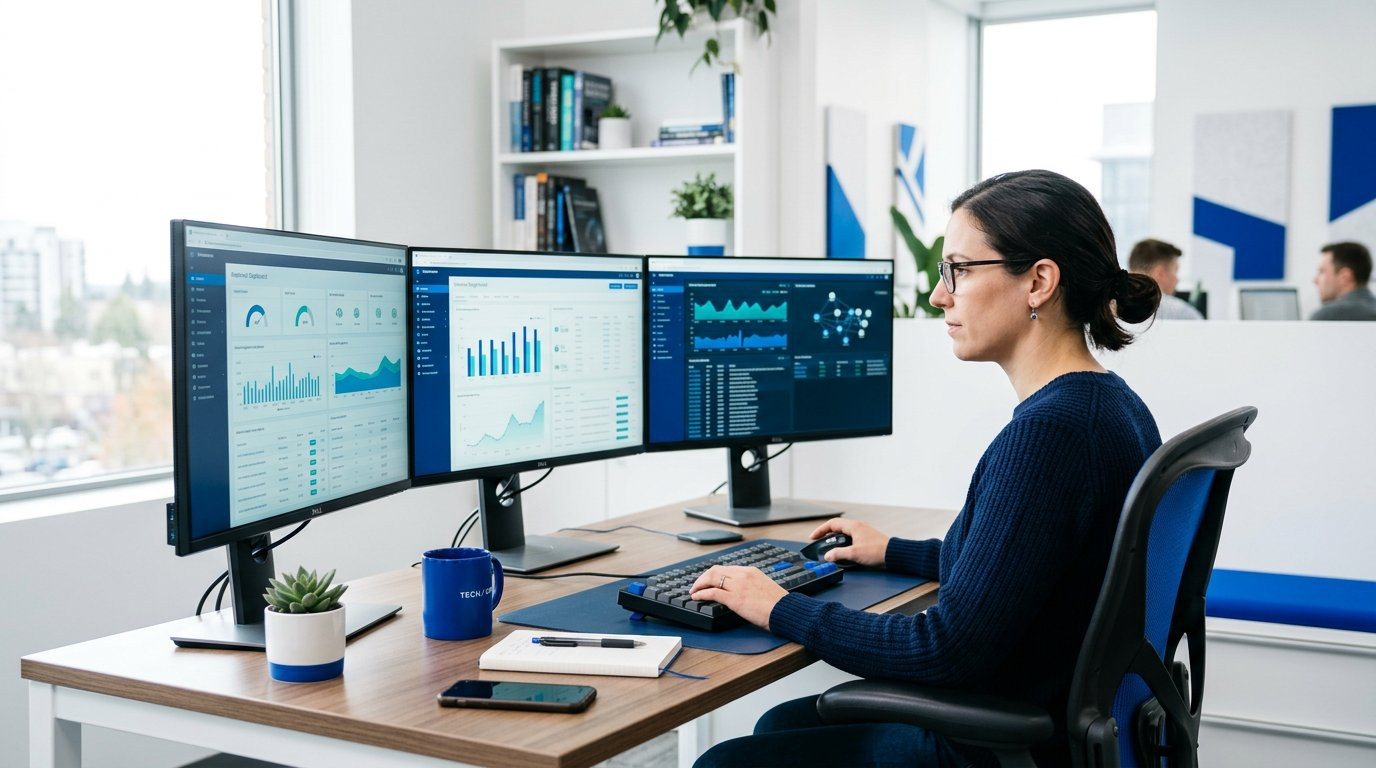
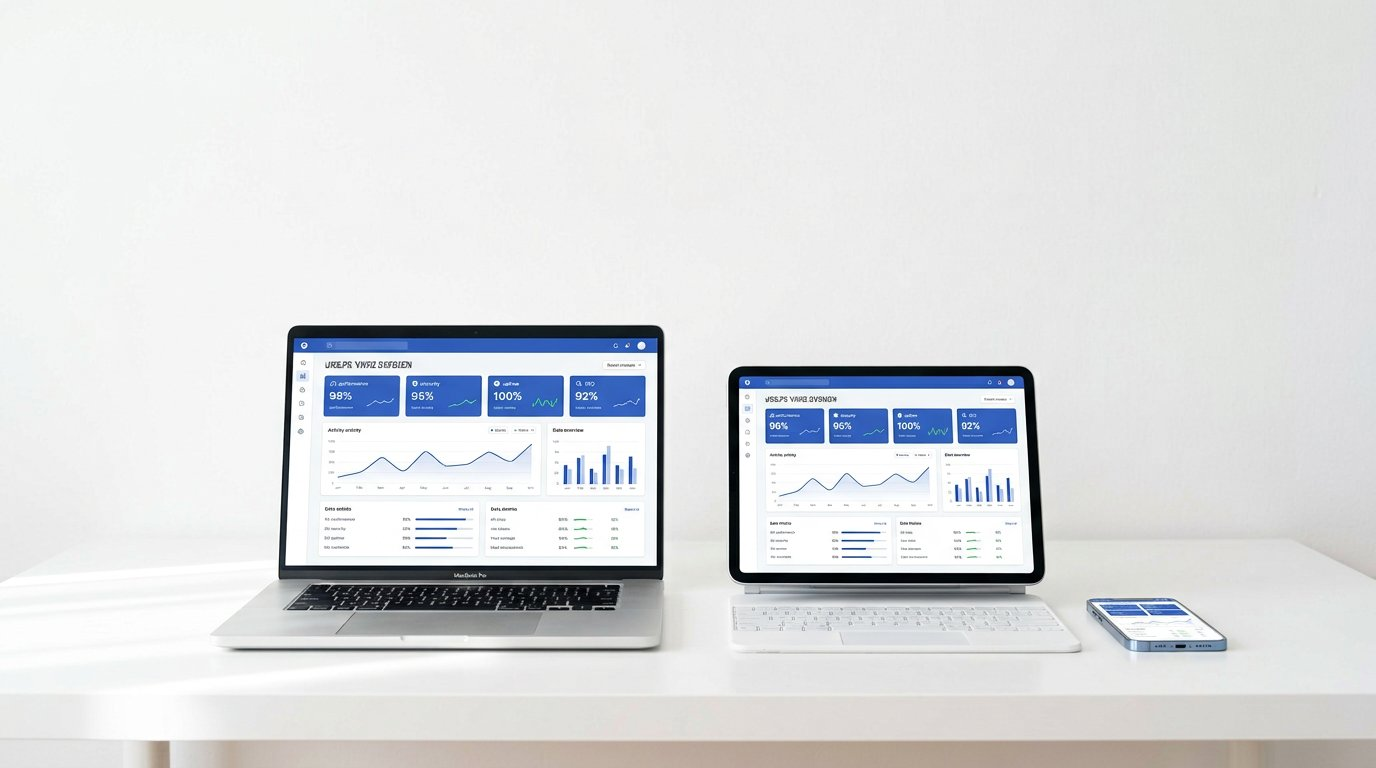
Product photoshoot pass: hero_banner / product_shot / lifestyle product images
Per higgsfield-product-photoshoot mode system (CLI bootstrap blocked in sandbox:
GitHub release hosts unreachable + interactive auth; modes applied via local
image generation, documented in docs/impeccable-audit.md):
- hero_banner: new page-products.jpg (device trio, royal-blue dashboards, white studio)
- product_shot: product-studio.jpg (SynthShift engine image)
- lifestyle_scene: product-lifestyle.jpg (Products parallax banner)
- src/data/engines.ts: zero Pexels image hotlinks remaining

diff --git a/src/data/engines.ts b/src/data/engines.ts
@@ -1,4 +1,8 @@
 import type { EngineMeta } from '../types';
+import methodImage from '../assets/images/page-methodology.jpg';
+import apiImage from '../assets/images/page-api.jpg';
+import productsHero from '../assets/images/page-products.jpg';
+import synthShiftImage from '../assets/images/product-studio.jpg';
 // The Pexels photo 3861958 that these three engines used now answers 503, so
 // they mount local assets instead: a dead third-party image was the homepage's
 // only console error and it cost best-practices points on every run (D17).
@@ -26,7 +30,7 @@ export const ENGINES_MAP: Record<string, EngineMeta> = {
     pythonScript: 'platform_migration_audit.py',
     route: '/docs/synthshift',
     docsAnchor: 'engine-par',
-    image: 'https://images.pexels.com/photos/1181675/pexels-photo-1181675.jpeg?auto=compress&cs=tinysrgb&w=1260&h=750&dpr=1',
+    image: synthShiftImage,
     keyVectors: [
       'Site Topology & Route Hierarchy Mapping',
       'Canonical URL Destination Synchronization',
@@ -200,7 +204,7 @@ export const ENGINES_MAP: Record<string, EngineMeta> = {
     pythonScript: 'website_health.py',
     route: '/docs/vitalzyme',
     docsAnchor: 'engine-health',
-    image: 'https://images.pexels.com/photos/2599244/pexels-photo-2599244.jpeg?auto=compress&cs=tinysrgb&w=1260&h=750&dpr=1',
+    image: synthShiftImage,
     keyVectors: [
       'DOM Tree Recursion Depth & Total Node Volume',
       'Render-Blocking Stylesheets & Script Bottlenecks',
@@ -259,7 +263,7 @@ export const ENGINES_MAP: Record<string, EngineMeta> = {
     pythonScript: 'edge_latency.py',
     route: '/docs/edgevmax',
     docsAnchor: 'engine-latency',
-    image: 'https://images.pexels.com/photos/3182781/pexels-photo-3182781.jpeg?auto=compress&cs=tinysrgb&w=1260&h=750&dpr=1',
+    image: productsHero,
     keyVectors: [
       'Multi-Region Anycast Edge Routing Radar (US, EU, AP, SA)',
       '12 Global PoPs Time-To-First-Byte (TTFB) Comparison',
@@ -317,7 +321,7 @@ export const ENGINES_MAP: Record<string, EngineMeta> = {
     pythonScript: 'compliance_risk_audit.py',
     route: '/docs/riskprotease',
     docsAnchor: 'engine-compliance',
-    image: 'https://images.pexels.com/photos/281260/pexels-photo-281260.jpeg?auto=compress&cs=tinysrgb&w=1260&h=750&dpr=1',
+    image: methodImage,
     keyVectors: [
       'Strict-Transport-Security (HSTS 2-Year Preload Verification)',
       'Content-Security-Policy (Strict CSP Nonces & Hash Validation)',
@@ -433,7 +437,7 @@ export const ENGINES_MAP: Record<string, EngineMeta> = {
     pythonScript: 'llmo_optimizer.py',
     route: '/docs/allostersearch',
     docsAnchor: 'engine-llmo',
-    image: 'https://images.pexels.com/photos/281260/pexels-photo-281260.jpeg?auto=compress&cs=tinysrgb&w=1260&h=750&dpr=1',
+    image: methodImage,
     keyVectors: [
       'Schema.org TechArticle & Entity Graph Depth',
       'Factual Information Density Index for AI Citation',

diff --git a/src/pages/ProductsPage.tsx b/src/pages/ProductsPage.tsx
@@ -1,4 +1,5 @@
 import { motion } from "motion/react";
+import productLifestyle from '../assets/images/product-lifestyle.jpg';
 import productsImage from '../assets/images/page-products.jpg';
 import React, { useState } from 'react';
 import { Link } from 'react-router-dom';
@@ -159,7 +160,7 @@ export default {
  Deploy continuous telemetry agents, CI/CD quality gates, webhook dispatchers, and edge interceptors directly inside your custom domains. Prevent Core Web Vitals regressions, OWASP header drift, and AI readiness drops before users notice.
  </p>
  <figure className="mx-auto mt-10 max-w-4xl">
-   <img src={productsImage} alt="Engineer reviewing diagnostic dashboards across three monitors" loading="lazy" decoding="async" className="w-full rounded-2xl border border-[#111827]/[0.08] object-cover aspect-[16/9]" />
+   <img src={productsImage} alt="CatalystLab dashboard on laptop, tablet and phone in a bright studio" loading="lazy" decoding="async" className="w-full rounded-2xl border border-[#111827]/[0.08] object-cover aspect-[16/9]" />
  </figure>
 
  <div className="mt-8 flex flex-wrap items-center justify-center gap-3">
@@ -190,7 +191,7 @@ export default {
 
  {/* Immersive Products Parallax Banner */}
  <ParallaxSection
- bgImage="https://images.pexels.com/photos/1239291/pexels-photo-1239291.jpeg?auto=compress&cs=tinysrgb&w=1260&h=750&dpr=1"
+ bgImage={productLifestyle}
  overlayOpacity={0.88}
  height="min-h-[320px]"
  className="border-y border-border"

diff --git a/docs/impeccable-audit.md b/docs/impeccable-audit.md
@@ -265,3 +265,22 @@ Verification: check:design ✓ · typecheck ✓ · vite build ✓ · bundle ✓ 
   catalogue entries and the V_ Pexels video files remain licensed remotes
   with fallback chains — replacing those needs either the HyperFrames render
   (Chrome, unavailable here) or a generated-video provider with credentials.
+
+### Product photoshoot pass (higgsfield-product-photoshoot skill)
+The skill was fetched and read in full (supporting files resolve to
+`/tmp/skills-use-Osfe8e/higgsfield-product-photoshoot/SKILL.md` — SKILL.md only).
+Its bootstrap could not complete in this sandbox: the CLI install script and
+the npm package's binary both download from GitHub release hosts that are
+blocked here, and `higgsfield auth login` is interactive — so no Higgsfield
+job was submitted and no Higgsfield URLs are claimed. The skill's mode system
+was applied with this environment's image generation instead, for the product
+(CatalystLab platform) in the Clean SaaS world:
+- `hero_banner` → `src/assets/images/page-products.jpg` replaced (device trio,
+  royal-blue dashboards, white studio, 82 KB) and is the Products hero.
+- `product_shot` → `product-studio.jpg` (single laptop, white catalog ground),
+  now the SynthShift engine image.
+- `lifestyle_scene` → `product-lifestyle.jpg` (engineers using the platform),
+  now the Products parallax banner.
+Products data (`src/data/engines.ts`) now has **zero** Pexels image hotlinks.
+If Higgsfield auth becomes available, re-run:
+`higgsfield product-photoshoot create --mode hero_banner --prompt "CatalystLab dashboard on devices, Clean SaaS royal blue" --image src/assets/images/page-products.jpg --count 3`.
